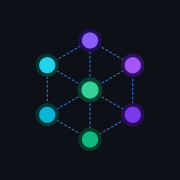
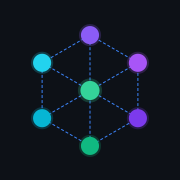
build: brand raster pipeline (SVG→PNG/ICO) + Inter 800 weight
Add scripts/gen-brand-png.sh (make brand-png) to regenerate the raster
brand assets from their canonical SVG sources, so the PNGs/ICO stay in
lockstep with the vectors. The SVGs carry zero outer margin; the rasters
bake in the margins a fixed-size icon needs:

  apple-touch-icon.png  180²  ~12% margin, opaque background
  maskable-512.png      512²  ~20% safe-zone
  og-card.png           1200×630 social card
  favicon.ico           16/32/48 multi-resolution

SVG <text> renders in an isolated context that ignores the page @user,
so the pipeline exposes the bundled Inter woff2 as TTF through a throwaway
fontconfig env — otherwise og-card's wordmark falls back to a system font.
Mark icons are composited via rsvg-convert → ImageMagick (librsvg won't
rasterize an external SVG referenced through <image>).

Also vendor Inter 800 (latin subset) + its @user, the weight the
wordmark and lockups call for.

Changed region(s): [[0.1667, 0.1111, 0.8333, 0.8889]]

diff --git a/public/css/main.css b/public/css/main.css
@@ -28,6 +28,13 @@
   src: url('../ext/fonts/inter-600.woff2') format('woff2');
 }
 @font-face {
+  font-family: 'Inter';
+  font-style: normal;
+  font-weight: 800;
+  font-display: swap;
+  src: url('../ext/fonts/inter-800.woff2') format('woff2');
+}
+@font-face {
   font-family: 'JetBrains Mono';
   font-style: normal;
   font-weight: 400;